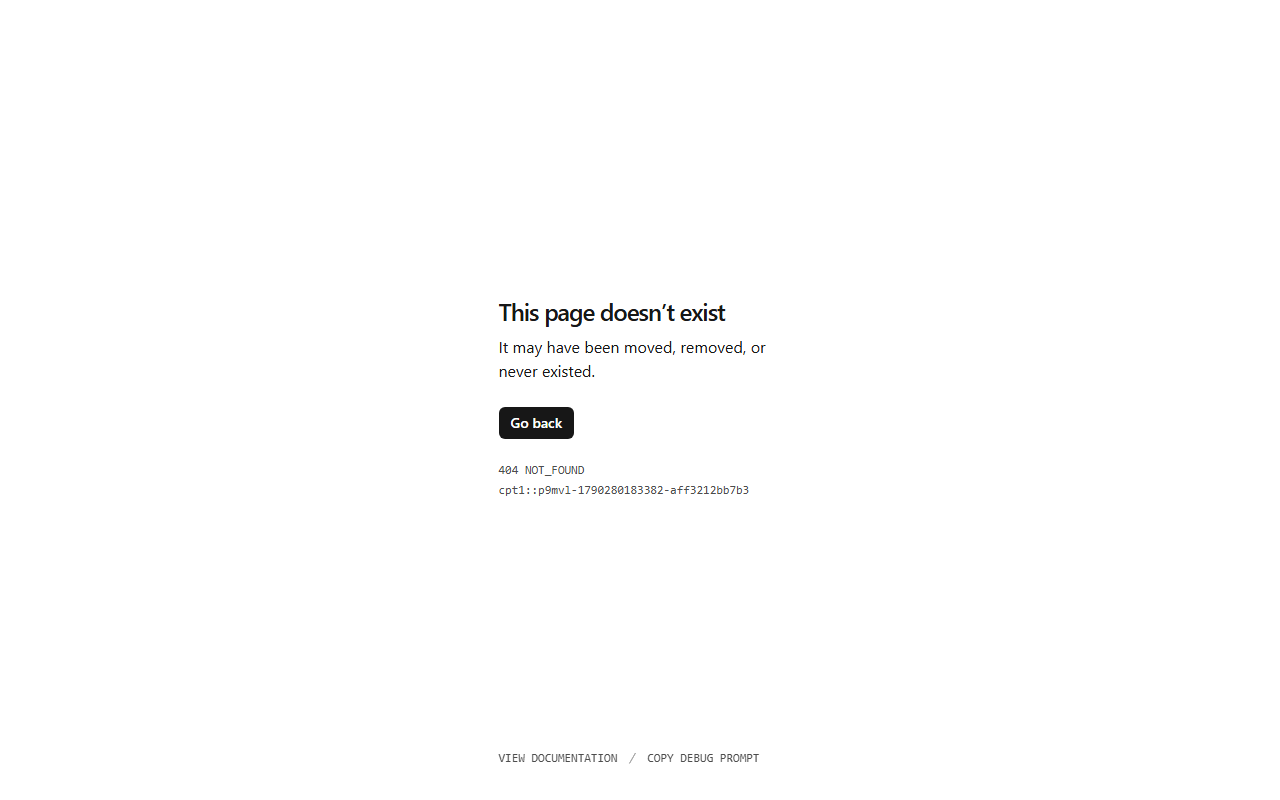
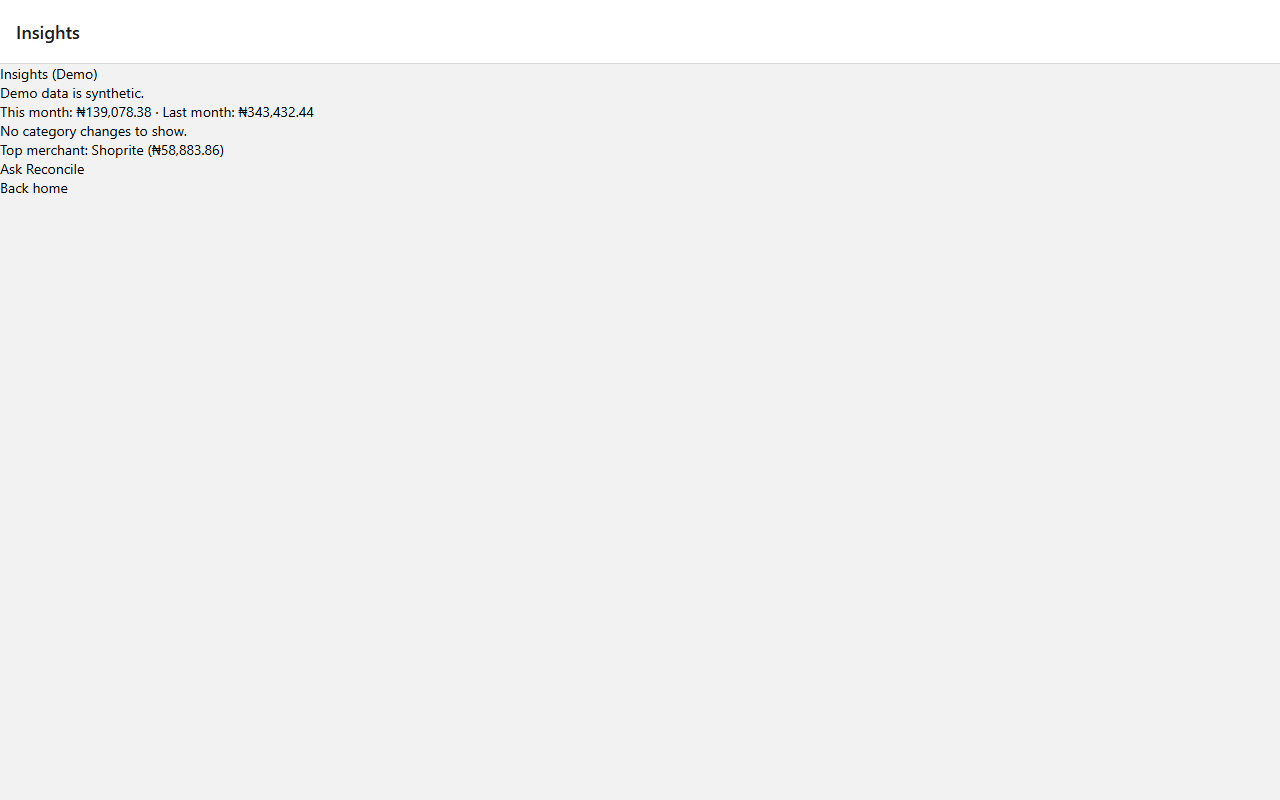
fix: normalize to-one review embeds and ask basis line
PostgREST returns a unique embedded row as an object, not an array, so transaction_reviews[0] was undefined in the app: budget caps read zero, insights showed no category change, detail showed no review state. Normalize with asEmbedArray at the data boundary (db.ts) plus a unit test. Also removes the doubled 'based on:' prefix in Ask answers.

diff --git a/src/lib/db.ts b/src/lib/db.ts
@@ -3,6 +3,7 @@
 // no function URLs outside this module.
 import { getSupabase } from "./supabase";
 import {
+  asEmbedArray,
   countMatchingConfirmations,
   shouldCreateRule,
 } from "../../supabase/functions/_shared/finance";
@@ -195,7 +196,14 @@ export async function getTransactions(limit = 200): Promise<Transaction[]> {
     .order("occurred_at", { ascending: false })
     .limit(limit);
   if (error) throw new Error(friendly(error, "Could not load transactions."));
-  return (data ?? []) as unknown as Transaction[];
+  return ((data ?? []) as unknown as RawTransactionRow[]).map((row) => ({
+    ...row,
+    transaction_reviews: asEmbedArray(row.transaction_reviews),
+  }));
+}
+
+interface RawTransactionRow extends Omit<Transaction, "transaction_reviews"> {
+  transaction_reviews: TxnReview | TxnReview[] | null;
 }
 
 export async function getTransaction(
@@ -210,7 +218,11 @@ export async function getTransaction(
     .maybeSingle();
   if (error) throw new Error(friendly(error, "Could not load transaction."));
   if (!data) throw new Error("Transaction not found.");
-  const row = data as unknown as Transaction;
+  const raw = data as unknown as RawTransactionRow;
+  const row: Transaction = {
+    ...raw,
+    transaction_reviews: asEmbedArray(raw.transaction_reviews),
+  };
   return { txn: row, review: row.transaction_reviews[0] ?? null };
 }
 

diff --git a/tests/budget.test.ts b/tests/budget.test.ts
@@ -1,5 +1,6 @@
 import { describe, expect, it } from "@jest/globals";
 import {
+  asEmbedArray,
   categorySpend,
   forecastSpend,
   periodSpend,
@@ -67,6 +68,14 @@ describe("budget math", () => {
     expect(remainingBudget(200000, 250000)).toBe(-50000);
   });
 
+  it("normalizes to-one embeds to arrays", () => {
+    // PostgREST returns a unique embedded row as an object, not an array.
+    expect(asEmbedArray(null)).toEqual([]);
+    expect(asEmbedArray(undefined)).toEqual([]);
+    expect(asEmbedArray([{ a: 1 }])).toEqual([{ a: 1 }]);
+    expect(asEmbedArray({ a: 1 })).toEqual([{ a: 1 }]);
+  });
+
   it("forecasts only with sufficient elapsed data", () => {
     // 10% elapsed → insufficient.
     expect(
@@ -80,8 +89,7 @@ describe("budget math", () => {
     expect(forecastSpend(10000, START, END, END + 1)).toBeNull();
   });
 
-  it("tracks category spend with refunds", () => {
-    const rows = [
+  it("tracks category spend with refunds", () => {    const rows = [
       row({ amountMinor: 100000, categoryId: "food" }),
       row({ amountMinor: 20000, categoryId: "food", semanticType: "refund" }),
       row({ amountMinor: 50000, categoryId: "transport" }),

diff --git a/supabase/functions/_shared/finance.ts b/supabase/functions/_shared/finance.ts
@@ -33,7 +33,16 @@ export interface NormalizedTransaction {
   budgetEligible: boolean;
 }
 
+// PostgREST returns to-one embeds (e.g. a unique transaction_reviews row)
+// as a single object, not an array. Normalize at the data boundary so
+// consumers always see arrays.
+export function asEmbedArray<T>(value: T | T[] | null | undefined): T[] {
+  if (value === null || value === undefined) return [];
+  return Array.isArray(value) ? value : [value];
+}
+
 // ------------------------------------------------------------------ money
+
 const CURRENCY_SYMBOLS: Record<string, string> = {
   NGN: "₦",
   USD: "$",

diff --git a/app/ask.tsx b/app/ask.tsx
@@ -76,7 +76,7 @@ export default function AskScreen() {
             ) : (
               <View>
                 <Text>{item.text}</Text>
-                {item.basis ? <Text>based on: {item.basis}</Text> : null}
+                {item.basis ? <Text>{item.basis}</Text> : null}
               </View>
             )
           }
